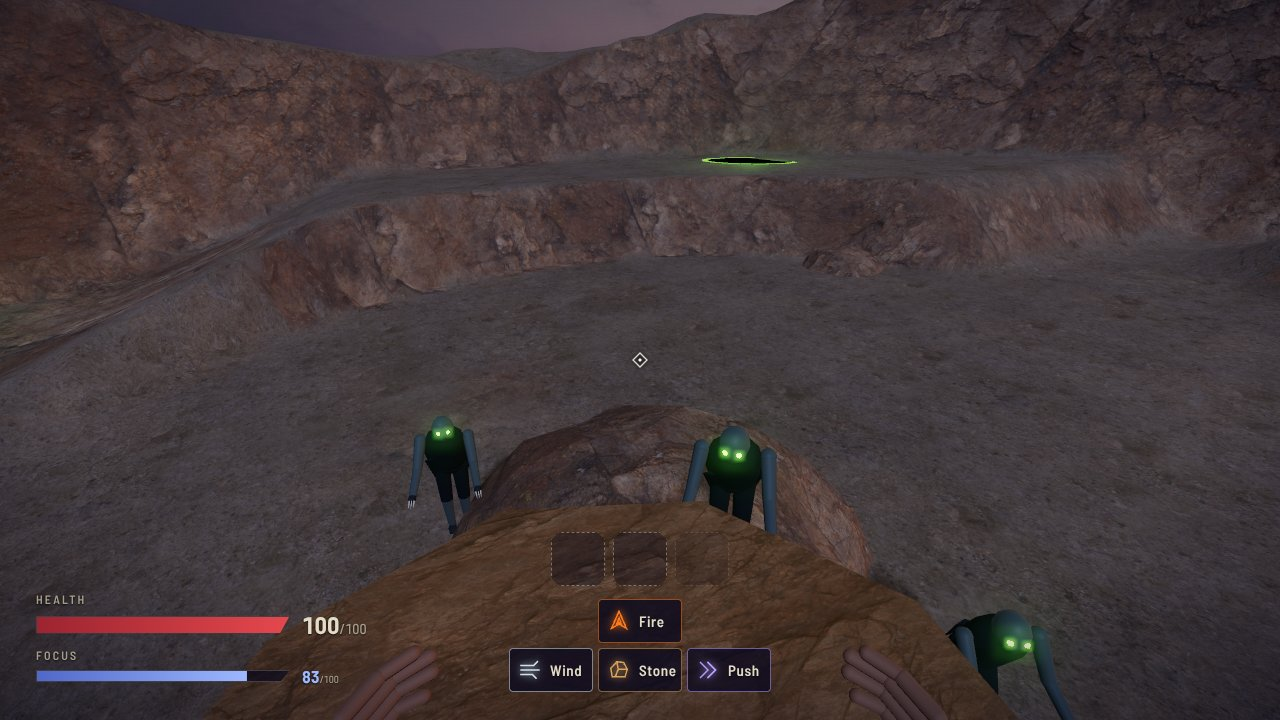
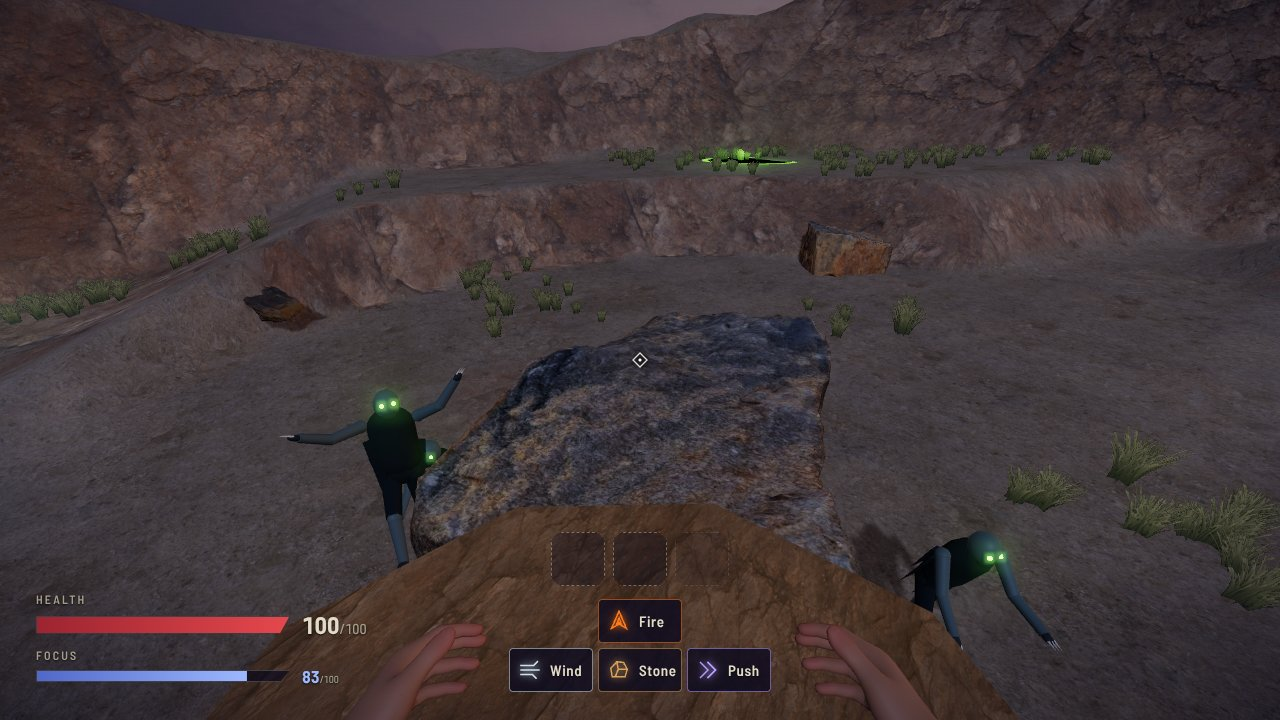
Fix knuckle marks; refresh screenshots and README for the scanned shore and new hands
Claude-Session: https://claude.ai/code/session_01P3M541RakGuWhMypDViYPp

diff --git a/src/player/hands.ts b/src/player/hands.ts
@@ -143,7 +143,8 @@ export class HandRig {
     holder.applyMatrix4(inv);
     this.root.add(holder);
     for (const f of FINGERS) {
-      const k = p(`${f}-phalanx-proximal`).applyMatrix4(inv);
+      // the model now sits inside our frame, so joint positions are already in it
+      const k = p(`${f}-phalanx-proximal`);
       this.knuckles.push(new THREE.Vector3(k.x, k.y - 0.024, k.z - 0.0125));
     }
     this.root.traverse((o) => { o.userData.noCollide = true; });

diff --git a/README.md b/README.md
@@ -5,7 +5,7 @@ dead mage and his journal. The journal teaches you words of magic. You speak the
 keys, combine them into sentences, and fight your way inland one night at a time. When you die the
 tide carries you back to the shore, and the only thing you keep is what you know.
 
-![Speaking a sentence as the Drowned close in](docs/screens/speak.jpg)
+![Waking on the shore beside your wrecked ship](docs/screens/wake.jpg)
 
 **Status:** first playable slice. The Wreck Shore is built: four sigils, fourteen sentences, two
 creatures, one wave stand. The plan for the rest is in [docs/PLAN.md](docs/PLAN.md).
@@ -37,18 +37,25 @@ The pause menu can teach you all four words at once, for testing, and can wipe w
 
 ## What is in the slice
 
-- **The Wreck Shore.** A beach, the two halves of the ship as ramps and decks, a ravine, and a cove
-  with a low ledge and a high outcrop.
+- **The Wreck Shore.** Your ship aground on the beach at dusk, a gangway up to its deck, a ravine,
+  and a cove with a low ledge and a high outcrop. The ship, rocks, debris, sand and sky are scanned
+  assets from Poly Haven.
+- **Your hands.** Fully jointed hands shape each sentence. The first word forms in your left hand,
+  the second in your right; each sigil has its own sign, and each kind of spell its own cast
+  gesture. The sigils you have bound are marked on the backs of your hands.
 - **Four sigils:** Fire, Push, Stone, Wind. Each is taught by a journal page. In the full game they
   are spread across the first biomes; here they are all on the shore so the system can be tried.
 - **Fourteen sentences**, from Firebolt to Gale. Seven are in the mage's journals; seven are yours
   to find. Stone Stone raises a pillar you can stand on. Wind Wind is an updraft.
 - **Height matters.** The Drowned cannot climb. They walk the long way round to a ramp, leap onto
-  low ledges, and wait under high ones. Anything thrown off a height takes fall damage, including you.
+  low ledges, and wait under high ones. Anything thrown off a height takes fall damage. So do you,
+  unless an updraft carried you.
 - **One stand:** three tides in the cove, sealed by wards until it is won.
 - **Death and return.** You wake on the shore again knowing every word and sentence you had.
 
-![Standing on a conjured pillar](docs/screens/climb.jpg)
+![Fire in the left hand, Push in the right](docs/screens/speak.jpg)
+
+![Every held sign and cast gesture](docs/screens/hands.jpg)
 
 ## Working on it
 
@@ -59,7 +66,10 @@ The pause menu can teach you all four words at once, for testing, and can wipe w
 | `npm test` | Unit tests for the sentence grammar and the navigation grid |
 | `npm run playtest` | Build, then play the loop headlessly and check ten rules of the game |
 | `node tools/look.cjs shots` | Screenshot a set of situations from the built game |
+| `node tools/hands.cjs out.jpg poses` | Contact sheet of every hand sign and gesture beat |
+| `node tools/hands.cjs out.jpg film fire push` | Film a sentence being spoken and cast, frame by frame |
 | `npm run assets` | Re-download the scanned textures and sky from Poly Haven |
+| `python3 tools/fetch-assets.py models && bash tools/optimize-models.sh` | Re-download and shrink the scanned models |
 
 The headless tools need Playwright's Chromium (`npx playwright install chromium`).
 
@@ -68,10 +78,10 @@ The headless tools need Playwright's Chromium (`npx playwright install chromium`
 | `src/magic` | Sigils, the sentence grammar (pure data), and what each spell does |
 | `src/world` | Collision, navigation, and the Wreck Shore level |
 | `src/enemies` | Creature behaviour |
-| `src/player` | Movement, and the first-person hands |
+| `src/player` | Movement; the hands (`hands.ts` the rig and springs, `poses.ts` the signs and gestures, `view.ts` the camera) |
 | `src/game` | The loop, the stand, journals, saving |
 | `src/art`, `src/fx`, `src/ui` | Materials, creature bodies, effects, HUD |
-| `public/assets` | Scanned textures and sky (Poly Haven, CC0) |
+| `public/assets` | Scanned textures, sky and models (Poly Haven, CC0) and the hand models (MIT). See `CREDITS.md` there. |
 | `art/` | Concept art and look-dev from the first, stylised direction |
 
-Creature models are placeholders built in code. Sound is not in yet.
+Creature models are still placeholders built in code. Sound is not in yet.
